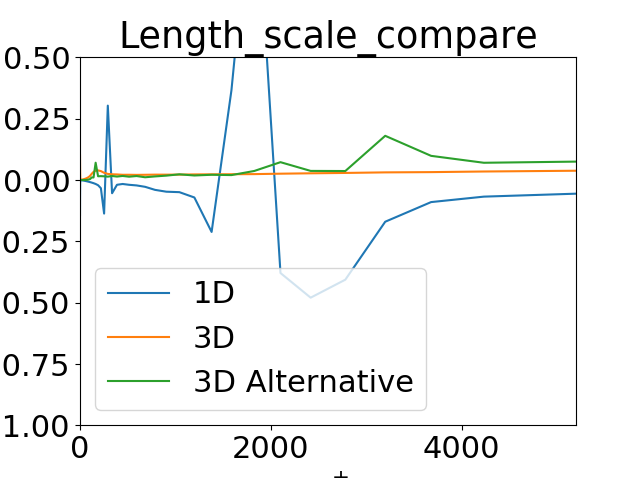
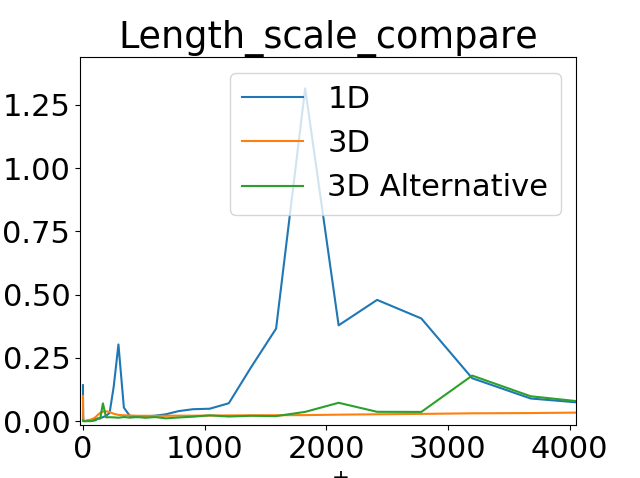
måndagsfix

diff --git a/Assignment 2b/pl_vect_hump.py b/Assignment 2b/pl_vect_hump.py
@@ -90,7 +90,7 @@ y_2d=np.transpose(np.reshape(y,(nj,ni)))
 
 # ---- Test
 #uv_model = 2*u*v - u*v_inst -u_inst*v 
-uv_model_2d=np.transpose(np.reshape(uv_model,(nj,ni)))
+uv_model_2d=np.reshape(uv_model,(ni,nj))
 
 
 # set fk_2d=1 at upper boundary
@@ -321,41 +321,93 @@ empty, nu_t_mod_xy =dphidx_dy(x_2d_new,y_2d_new, visc_turb*dudy)
 nu_t_mod_yx, empty=dphidx_dy(x_2d_new,y_2d_new, visc_turb*dvdx)
 empty, nu_t_mod_yy =dphidx_dy(x_2d_new,y_2d_new, visc_turb*dvdy)
 
-shear_stress_model_x = np.abs(nu_t_mod_xx) + np.abs(nu_t_mod_xy)
+shear_stress_model_x = nu_t_mod_xx + nu_t_mod_xy
 shear_stress_model_y = np.abs(nu_t_mod_yx) + np.abs(nu_t_mod_yy)
 
 duudx, empty  =dphidx_dy(x_2d_new,y_2d_new, uu_2d)
 duvdx, duvdy  =dphidx_dy(x_2d_new,y_2d_new, uv_2d)
 empty, dvvdy  =dphidx_dy(x_2d_new,y_2d_new, vv_2d)
 
-shear_stress_resolved_x = np.abs(- duudx - duvdy)
+shear_stress_resolved_x = - duudx - duvdy
 shear_stress_resolved_y = np.abs(- duvdx - dvvdy)
     
 shear_stress_x_tot = shear_stress_model_x + shear_stress_resolved_x
 shear_stress_y_tot = shear_stress_model_y + shear_stress_resolved_y
 
-def shear_stress_ratio_x_contour_plot():
+def term_vx_resolved():
     plt.figure("Figure test 1")
     plt.clf() #clear the figure
-    plt.contourf(x_2d,y_2d, shear_stress_model_x/shear_stress_x_tot, 
-                 levels = np.linspace(0,1,30))
+    plt.contourf(x_2d,y_2d, shear_stress_resolved_x, 
+                 levels = np.linspace(-1,1,30))
     plt.xlabel("$x$")
     plt.ylabel("$y$")
     plt.axis([0.6,1.5,0,1])
-    plt.title("contour term 1 ratio $\\frac{resolved}{total}$")
+    plt.title("contour term  $resolved$")
     plt.colorbar()
 
-def shear_stress_ratio_y_contour_plot():
+def term_vx_modelled():
     plt.figure("Figure test 2")
     plt.clf() #clear the figure
-    plt.contourf(x_2d,y_2d, shear_stress_model_y/shear_stress_y_tot, 
-                 levels = np.linspace(0,1,30))
+    plt.contourf(x_2d,y_2d, shear_stress_model_x, 
+                 levels = np.linspace(-1,1,30))
     plt.xlabel("$x$")
     plt.ylabel("$y$")
     plt.axis([0.6,1.5,0,1])
-    plt.title("contour term 2 ratio $\\frac{resolved}{total}$")
+    plt.title("contour term $modelled$")
     plt.colorbar()
-
+    
+def term_vx_065():
+    plt.figure("Figure term1 065")
+    plt.clf() #clear the figure
+    xx=0.65;
+    i1 = (np.abs(xx-x_2d[:,1])).argmin()  # find index which closest fits xx
+    plt.plot(shear_stress_resolved_x[i1,:],y_2d[i1,:],'b-', label = 'resolved')
+    plt.plot(shear_stress_model_x[i1,:],y_2d[i1,:],'r-', label = 'modelled')
+    plt.xlabel("$v_x$ terms")
+    plt.ylabel("$y$")
+    plt.title("$x=0.65$")
+    plt.axis([-0.04, 1,np.min(y_2d[i1,0]), 1])
+    plt.legend()
+    
+def term_vx_080():
+    plt.figure("Figure term1 080")
+    plt.clf() #clear the figure
+    xx=0.80;
+    i1 = (np.abs(xx-x_2d[:,1])).argmin()  # find index which closest fits xx
+    plt.plot(shear_stress_resolved_x[i1,:],y_2d[i1,:],'b-', label = 'resolved')
+    plt.plot(shear_stress_model_x[i1,:],y_2d[i1,:],'r-', label = 'modelled')
+    plt.xlabel("$v_x$ terms")
+    plt.ylabel("$y$")
+    plt.title("$x=0.80$")
+    plt.axis([-0.04, 1,np.min(y_2d[i1,0]), 1])
+    plt.legend()
+    
+def term_vx_090():
+    plt.figure("Figure term1 090")
+    plt.clf() #clear the figure
+    xx=0.90;
+    i1 = (np.abs(xx-x_2d[:,1])).argmin()  # find index which closest fits xx
+    plt.plot(shear_stress_resolved_x[i1,:],y_2d[i1,:],'b-', label = 'resolved')
+    plt.plot(shear_stress_model_x[i1,:],y_2d[i1,:],'r-', label = 'modelled')
+    plt.xlabel("$v_x$ terms")
+    plt.ylabel("$y$")
+    plt.title("$x=0.90$")
+    plt.axis([-0.04, 1,np.min(y_2d[i1,0]), 1])
+    plt.legend()
+    
+def term_vx_130():
+    plt.figure("Figure term1 130")
+    plt.clf() #clear the figure
+    xx=1.30;
+    i1 = (np.abs(xx-x_2d[:,1])).argmin()  # find index which closest fits xx
+    plt.plot(shear_stress_resolved_x[i1,:],y_2d[i1,:],'b-', label = 'resolved')
+    plt.plot(shear_stress_model_x[i1,:],y_2d[i1,:],'r-', label = 'modelled')
+    plt.xlabel("$v_x$ terms")
+    plt.ylabel("$y$")
+    plt.title("$x=1.30$")
+    plt.axis([-0.04, 1,np.min(y_2d[i1,0]), 1])
+    plt.legend()
+    
 # ---- Extras Plots
 ################################ contour plot
 def contour():
@@ -443,11 +495,24 @@ label_overview.grid(row=0, column=3, sticky='nesw')
 button_nu_t_ratio = tk.Button(root, text= 'Nu_t ratio Contour Plot', command = nu_t_ratio_contour)
 button_nu_t_ratio.grid(row=1, column=3, sticky='nesw')
 
-button_shear_stress_ratio_x_contour_plot = tk.Button(root, text= 'Shear Stress Ratio x Contour', command = shear_stress_ratio_x_contour_plot)
+button_shear_stress_ratio_x_contour_plot = tk.Button(root, text= 'term_vx_resolved', command = term_vx_resolved)
 button_shear_stress_ratio_x_contour_plot.grid(row=2, column=3, sticky='nesw')
 
-button_shear_stress_ratio_y_contour_plot = tk.Button(root, text= 'Shear Stress Ratio y Contour', command = shear_stress_ratio_y_contour_plot)
+button_shear_stress_ratio_y_contour_plot = tk.Button(root, text= 'term_vx_modelled', command = term_vx_modelled)
 button_shear_stress_ratio_y_contour_plot.grid(row=3, column=3, sticky='nesw')
+
+button_terms_065 = tk.Button(root, text= 'Terms x=0.65', command = term_vx_065)
+button_terms_065.grid(row=4, column=3, sticky='nesw')
+
+button_terms_080 = tk.Button(root, text= 'Terms x=0.80', command = term_vx_080)
+button_terms_080.grid(row=5, column=3, sticky='nesw')
+
+button_terms_090 = tk.Button(root, text= 'Terms x=0.90', command = term_vx_090)
+button_terms_090.grid(row=6, column=3, sticky='nesw')
+
+button_terms_130 = tk.Button(root, text= 'Terms x=1.30', command = term_vx_130)
+button_terms_130.grid(row=7, column=3, sticky='nesw')
+
 
 # Extra Plots
 button_contour = tk.Button(root, text= 'Contour Plot', command = contour)

diff --git a/Assignment 2b/pl_vect_hump_fine.py b/Assignment 2b/pl_vect_hump_fine.py
@@ -115,7 +115,7 @@ vv_2d=np.reshape(vv,(ni,nj))
 ww_2d=np.reshape(ww,(ni,nj))
 k_model_2d=np.reshape(k_model,(ni,nj))
 vis_2d=np.reshape(vis,(ni,nj)) #this is to total viscosity, i.e. vis_tot=vis+vis_turb
-diss_2d=np.reshape(diss,(ni,nj)) #this is to total viscosity, i.e. vis_tot=vis+vis_turb
+diss_2d=np.reshape(diss,(ni,nj)) 
 
 # set fk_2d=1 at upper boundary
 fk_2d[:,nj-1]=fk_2d[:,nj-2]
@@ -171,13 +171,9 @@ switch = np.zeros(ni-1)
 for i in range(ni-1):
     for j in reversed(range(nj-1)):
         if fk_2d[i,j] < 0.4:
-            switch[i] = y_2d[i,j] - y_2d[i,0]    
+            switch[i] = y_2d[i,j] - y_2d[i,0]
             break
-
-k_res = 0.5*(uu_2d + vv_2d + ww_2d) # ww_2d aswell? not defined the same
-
-fk_def = k_model_2d/(k_model_2d + k_res)
-
+            
 def fk_boundary():
     plt.figure("Figure fk contour boundary")
     plt.clf() #clear the figure
@@ -186,44 +182,9 @@ def fk_boundary():
     plt.ylabel("$y-y_{wall}$")
     plt.axis([0.6,1.5,0,0.2])
     plt.title("Wall distance $f_k=0.4$")
-
-def fk_lines():
-    plt.figure("Figure fk lines")
-    plt.clf() #clear the figure
-    
-    xx = 0.65
-    i1 = (np.abs(xx-x_2d[:,1])).argmin()
-    plt.plot(y_2d[i1,:]-y_2d[i1,0], fk_2d[i1,1:],'r-', label = 'x = 0.65')
-    plt.plot(y_2d[i1,:]-y_2d[i1,0], fk_def[i1,1:],'r--', label = 'x = 0.65 by def')
-    
-    xx = 0.80
-    i1 = (np.abs(xx-x_2d[:,1])).argmin()
-    plt.plot(y_2d[i1,:]-y_2d[i1,0], fk_2d[i1,1:],'b-', label = 'x = 0.80')
-    plt.plot(y_2d[i1,:]-y_2d[i1,0], fk_def[i1,1:],'b--', label = 'x = 0.80 by def')
-    
-    xx = 1.00
-    i1 = (np.abs(xx-x_2d[:,1])).argmin()
-    plt.plot(y_2d[i1,:]-y_2d[i1,0], fk_2d[i1,1:],'g-', label = 'x = 1.00')
-    plt.plot(y_2d[i1,:]-y_2d[i1,0], fk_def[i1,1:],'g--', label = 'x = 1.00 by def')
-    
-    xx = 1.20
-    i1 = (np.abs(xx-x_2d[:,1])).argmin()
-    plt.plot(y_2d[i1,:]-y_2d[i1,0], fk_2d[i1,1:],'y-', label = 'x = 1.20')
-    plt.plot(y_2d[i1,:]-y_2d[i1,0], fk_def[i1,1:],'y--', label = 'x = 1.20 by def')
+                
+Cmu = 0.09            
         
-    plt.xlabel("$y-y_{wall}$")
-    plt.ylabel("$f_k$")
-    plt.axis([0, 0.3, 0, 1.1])
-    plt.title("Wall distance")
-    plt.legend()
-    
-# TODO:
-Cmu = 0.09
-fk_def2 = (dz)*1/np.sqrt(Cmu) * np.power(diss_2d, 2/3)/(k_model_2d + k_res)
-    
-    
-# V.5 
-
 dx = np.diff(x_2d, axis = 0)
 
 dx = np.insert(dx,0, dx[-1,:], axis=0)
@@ -235,6 +196,58 @@ dy = np.insert(dy,0, dy[:,-1], axis = 1)
 C_des = 0.65
 
 dZ = np.ones((ni-1,nj-1))
+
+# ---- Here
+k_res = 0.5*(uu_2d + vv_2d + ww_2d) # ww_2d aswell? not defined the same
+
+k_tot = k_model_2d + k_res
+
+fk_def = k_model_2d/k_tot
+
+L_t_alt = np.power(k_tot, 3/2)/diss_2d
+
+Delta = np.minimum(dx, dy, dz*dZ)
+
+Delta2 = np.power(Delta*dx*dy*dz, 1/3)
+
+fk_alt = np.power(Delta2/L_t_alt[1:,1:], 2/3)/(np.sqrt(Cmu))
+
+
+def fk_lines():
+    plt.figure("Figure fk lines")
+    plt.clf() #clear the figure
+    
+    xx = 0.65
+    i1 = (np.abs(xx-x_2d[:,1])).argmin()
+    plt.plot(y_2d[i1,:]-y_2d[i1,0], fk_2d[i1,1:],'r-', label = 'x = 0.65')
+    plt.plot(y_2d[i1,:]-y_2d[i1,0], fk_def[i1,1:],'r--', label = 'x = 0.65 by def')
+    plt.plot(y_2d[i1,:]-y_2d[i1,0], fk_alt[i1,:],'r*', label = 'x = 0.65 by alt def')
+    
+    xx = 0.80
+    i1 = (np.abs(xx-x_2d[:,1])).argmin()
+    plt.plot(y_2d[i1,:]-y_2d[i1,0], fk_2d[i1,1:],'b-', label = 'x = 0.80')
+    plt.plot(y_2d[i1,:]-y_2d[i1,0], fk_def[i1,1:],'b--', label = 'x = 0.80 by def')
+    plt.plot(y_2d[i1,:]-y_2d[i1,0], fk_alt[i1,:],'b*', label = 'x = 0.80 by alt def')
+    
+    xx = 0.90
+    i1 = (np.abs(xx-x_2d[:,1])).argmin()
+    plt.plot(y_2d[i1,:]-y_2d[i1,0], fk_2d[i1,1:],'g-', label = 'x = 0.90')
+    plt.plot(y_2d[i1,:]-y_2d[i1,0], fk_def[i1,1:],'g--', label = 'x = 0.90 by def')
+    plt.plot(y_2d[i1,:]-y_2d[i1,0], fk_alt[i1,:],'g*', label = 'x = 0.90 by alt def')
+    
+    xx = 1.30
+    i1 = (np.abs(xx-x_2d[:,1])).argmin()
+    plt.plot(y_2d[i1,:]-y_2d[i1,0], fk_2d[i1,1:],'y-', label = 'x = 1.30')
+    plt.plot(y_2d[i1,:]-y_2d[i1,0], fk_def[i1,1:],'y--', label = 'x = 1.30 by def')
+    plt.plot(y_2d[i1,:]-y_2d[i1,0], fk_alt[i1,:],'y*', label = 'x = 1.30 by alt def')
+        
+    plt.xlabel("$y-y_{wall}$")
+    plt.ylabel("$f_k$")
+    plt.axis([0, 0.3, 0, 1.1])
+    plt.title("Wall distance")
+    plt.legend() 
+    
+# V.5 
 
 d_boundary = C_des * np.maximum(dx, dy, dz*dZ)
 
@@ -342,6 +355,15 @@ def d_boundary_alt_2_plot():
     plt.axis([0.6,1.5,0, 0.3])
     plt.title("Wall distance SST-DDES")
 
+def check_contour_plot():
+    plt.figure("Check")
+    plt.clf() #clear the figure
+    plt.contourf(x_2d,y_2d, limit, np.linspace(0,1,30))
+    plt.xlabel("$x$")
+    plt.ylabel("$y$")
+    plt.axis([0.6,1.5,0, 1])
+    plt.title("Check")
+    plt.colorbar()
 
 def close_fig():
     plt.close()
@@ -383,5 +405,8 @@ button_length_scale_line2.grid(row=3, column=2, sticky='nesw')
 
 button_length_scale_line3 = tk.Button(root, text= 'd boundary alt 2', command = d_boundary_alt_2_plot)
 button_length_scale_line3.grid(row=4, column=2, sticky='nesw')
+
+button_check_contour_plot = tk.Button(root, text= 'check contour plot', command = check_contour_plot)
+button_check_contour_plot.grid(row=5, column=2, sticky='nesw')
 
 root.mainloop()

diff --git a/Assignment 2a/pl_uvw_IDD_PANS.py b/Assignment 2a/pl_uvw_IDD_PANS.py
@@ -366,8 +366,9 @@ def turbulent_shear_ratio():
     plt.legend()
     
 # ---- U6
-
+omega = epsmean/(Cmu*temean)
 L_t = np.power(temean, 1.5)/epsmean
+L_t = np.sqrt(temean)/(Cmu*omega)
 
 F_DES = (L_t/(0.61*dx))
 
@@ -407,7 +408,7 @@ zeta = 1
 dumeandy = np.gradient(umean, y)
 dumeandy2 = np.gradient(dumeandy, y)
 
-L_v_K_1D = kappa * dumeandy/dumeandy2
+L_v_K_1D = kappa * np.abs(dumeandy/dumeandy2)
 
 S_1D = np.sqrt(2)*dumeandy
 

diff --git a/Assignment 2b/Questions.md b/Assignment 2b/Questions.md
@@ -1,10 +1,10 @@
 - [ ] V1
 
-  - Neccessary to plot all? Maybe 065, 080 and 110?
+  - Neccessary to plot all? Maybe only 065, 080, 090 and 130?
 
 - [ ] V2
 
-  - Resolved stress correct? A potential alternative in ebook
+  - Resolved stress correct? A potential alternative in ebook page ...
 
 - [ ] V3
 

diff --git a/Assignment 2a/Questions.md b/Assignment 2a/Questions.md
@@ -1,6 +1,6 @@
 - [x] U1
 
-- [ ] U2
+- [x] U2
 
   - Plot v_3?
 
@@ -10,13 +10,14 @@
 
 - [x] U5
 
-- [ ] U6
+- [x] U6
 
   - Wierd for F_DES? 
 
 - [ ] U7
 
-  - O(x^2)
+  - O(x^1)
   - Lengthscales looks Wierd?
+  - Compare for 1D
   
   
